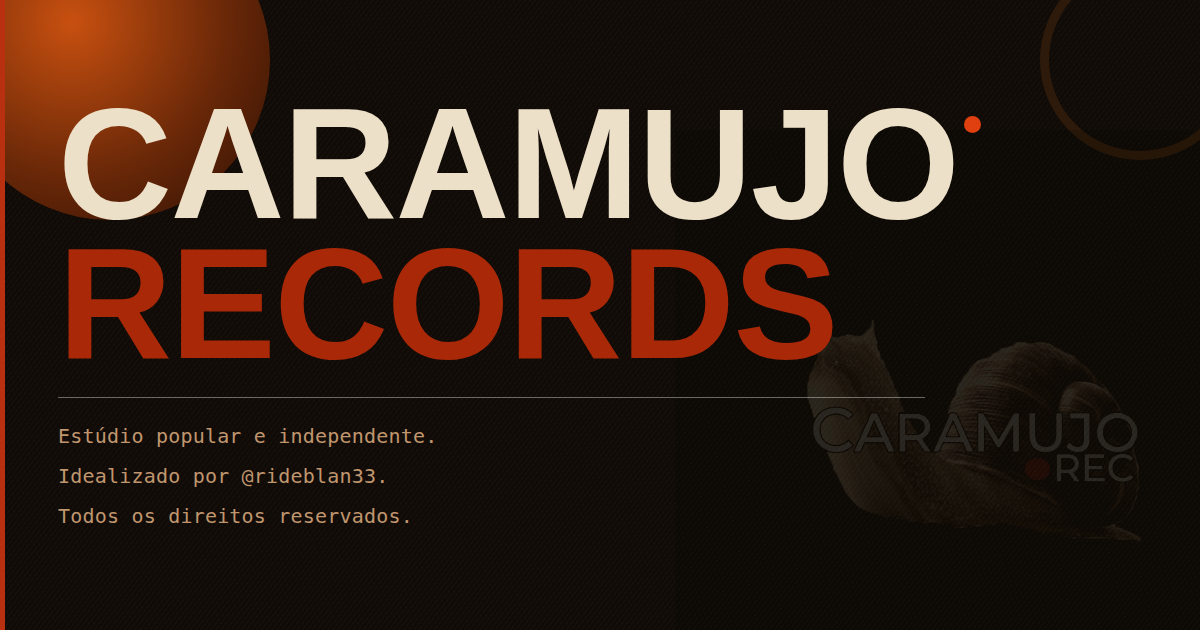
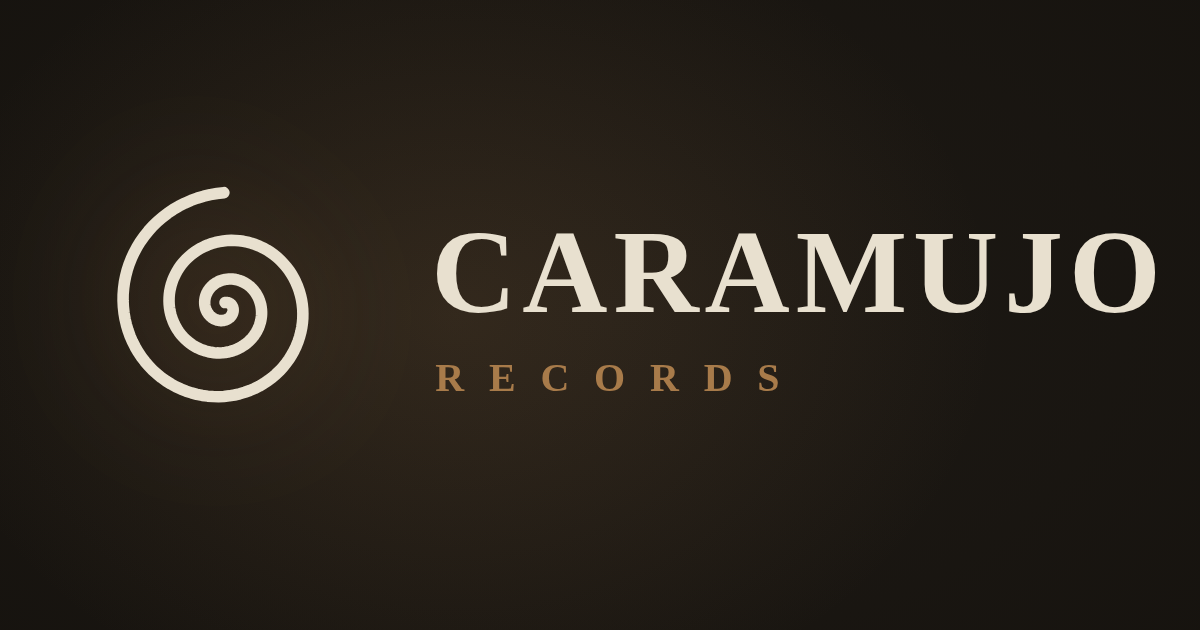
Add files via upload

diff --git a/README.md b/README.md
@@ -8,7 +8,9 @@ Site oficial do estúdio Caramujo Records — beats exclusivos, mixagem e master
 
 ## Visão Geral
 
-Single-page application (SPA) em HTML/CSS/JS puro, sem frameworks. Hospedado no **Cloudflare Pages** com deploy automático via GitHub. Integra **SoundCloud** para preview dos beats e **Mercado Pago** para processamento de pagamentos via cartão de crédito e PIX.
+Single-page application (SPA) em HTML/CSS/JS puro, sem frameworks. Hospedado no **Cloudflare Pages** com deploy automático via GitHub. Integra **SoundCloud** (preview dos beats + player contínuo via Widget API) e **Mercado Pago** para pagamentos via cartão de crédito e PIX.
+
+Jornada do site: **hero → pacotes → catálogo de beats → serviços → contato**. Os pacotes vêm antes do catálogo de propósito: o visitante ancora o preço antes de mergulhar nos beats.
 
 ---
 
@@ -20,6 +22,7 @@ Single-page application (SPA) em HTML/CSS/JS puro, sem frameworks. Hospedado no 
 ├── og-image.png                   # Thumbnail para compartilhamento (WhatsApp, redes sociais)
 ├── termos-de-licenca.pdf          # Termos de licença disponíveis para download
 ├── Caramujo_Records.png           # Logo do estúdio
+├── selo-creme.svg / selo-sepia.svg# Selos da marca (favicon, hero, footer)
 ├── _headers                       # Headers HTTP do Cloudflare (CSP, segurança)
 ├── email-pedido.html              # Template de email — notificação de novo pedido (ao dono)
 ├── email-entrega.html             # Template de email — confirmação de pedido (ao comprador)
@@ -34,30 +37,41 @@ Single-page application (SPA) em HTML/CSS/JS puro, sem frameworks. Hospedado no 
 
 ## Funcionalidades
 
+### Hero
+- Prova social: 40+ artistas · 200+ faixas lançadas · 2.500.000+ streams
+- CTAs: "Ouvir o catálogo" (#beats) e "Mix & master" (#services)
+
 ### Catálogo de Beats
-- Listagem paginada dos beats disponíveis com player SoundCloud integrado
-- Filtro por gênero (Trap, Boom Bap, Plug, Hood Trap, etc.)
-- Busca por nome — sem distinção de maiúsculas/minúsculas e sem distinção de acentos
-- Beats marcados como `sold: true` são removidos automaticamente do catálogo após a venda
+- Listagem paginada (9 por página) com player SoundCloud integrado
+- **Player contínuo / modo rádio:** dar play num beat pausa os demais; quando um beat termina, o próximo toca automaticamente — inclusive virando de página sozinho até o fim do catálogo
+- Filtro por gênero (Trap, Boom Bap, Plug, Hood Trap, Drill, etc.)
+- Ordenação: padrão ou aleatória (reembaralha a cada seleção)
+- Busca por nome — sem distinção de maiúsculas/minúsculas nem de acentos
+- Beats vendidos: exibidos por padrão como prova social (nome riscado + botão "✕ Vendido" desabilitado), com opção "Esconder vendidos"
+- "Licença exclusiva" com balão explicativo no hover/clique
 
 ### Pacotes Promocionais
-- Desconto progressivo para compra de 1, 2 ou 3 beats
-- Opção de adicionar stems separados por instrumento
-- Modal de seleção de beat com busca integrada (também normalizada)
+- Desconto progressivo para 1, 2 ou 3 beats (R$119 / R$219 / R$299)
+- Modal de seleção de beats com busca integrada (também normalizada)
 
 ### Serviços por Encomenda
-- Beat personalizado, Mixagem, Masterização e Mix + Master
+- Beat personalizado (R$149), Mixagem (R$149), Masterização (R$79) e Mix + Master (R$199)
 - Adicionados ao carrinho e processados pelo mesmo fluxo de pagamento
 
 ### Carrinho e Checkout
+- **Upsell inteligente:** o carrinho sempre aponta o próximo degrau de custo-benefício, com a economia em destaque
+  - 1 beat avulso → pacote de 2 (−R$19) · 2 avulsos → pacote de 3 (−R$58)
+  - Pacote de 1 → pacote de 2 (−R$19) · pacote de 2 → pacote de 3 (−R$39)
+  - Só Mixagem ou só Masterização → Mix + Master (−R$29) · ambos separados → combo (−R$29)
+  - Some quando o cliente já está no melhor degrau
 - Validação de CPF, email e dados do comprador
-- Suporte a cupons de desconto com controle de usos via GitHub API
+- Cupons de desconto com controle de usos via GitHub API
 - Aceite eletrônico dos termos de licença com timestamp registrado
 - Pagamento via **cartão de crédito** (Mercado Pago Checkout Bricks) e **PIX**
 
 ### Contrato Digital
 - Gerado automaticamente no momento do pagamento
-- Inclui dados do comprador, itens adquiridos, valor, ID do pagamento e timestamp do aceite
+- Inclui dados do comprador, itens, valor, ID do pagamento e timestamp do aceite
 - Enviado ao comprador e ao produtor como anexo por email
 
 ---
@@ -85,7 +99,7 @@ Comprador preenche dados → create-payment.js → Mercado Pago
                            (catálogo atualizado em produção)
 ```
 
-> **Cartão:** emails disparados no `create-payment.js` (resposta síncrona).  
+> **Cartão:** emails disparados no `create-payment.js` (resposta síncrona).
 > **PIX:** emails disparados no `payment-webhook.js` (após confirmação assíncrona do Mercado Pago).
 
 ---
@@ -106,7 +120,7 @@ Configuradas no painel do Cloudflare Pages → **Settings → Environment variab
 
 ## Deploy
 
-O projeto usa **Cloudflare Pages** com deploy contínuo via GitHub.
+**Cloudflare Pages** com deploy contínuo via GitHub.
 
 ```bash
 # Qualquer push para a branch main dispara o redeploy automaticamente
@@ -115,7 +129,9 @@ git commit -m "descrição da mudança"
 git push
 ```
 
-O webhook de pagamento também dispara commits automáticos (marcação de beats vendidos e controle de cupons), o que por sua vez aciona um novo redeploy.
+O webhook de pagamento também dispara commits automáticos (marcação de beats vendidos e controle de cupons), o que aciona um novo redeploy.
+
+> **Atenção:** o `_headers` precisa liberar `https://w.soundcloud.com` no `script-src` da CSP. Sem isso, o player contínuo não funciona em produção (o script da Widget API é bloqueado pelo navegador).
 
 ---
 
@@ -124,19 +140,19 @@ O webhook de pagamento também dispara commits automáticos (marcação de beats
 Os beats são definidos diretamente no `index.html`, no array `BEATS`:
 
 ```js
-{ id: 99, name: 'Nome do Beat', genre: 'trap', bpm: 140, key: 'Am',
-  sc: 'SOUNDCLOUD_TRACK_ID', sold: false }
+{ id: 112, name: 'NOME DO BEAT', bpm: 140, key: 'Am', genre: 'trap',
+  sold: false, scUrl: 'https%3A//soundcloud.com/rideblan33/slug-da-faixa' }
 ```
 
 | Campo | Descrição |
 |---|---|
 | `id` | Identificador único (não repetir) |
 | `name` | Nome do beat (usado na busca e no contrato) |
-| `genre` | Gênero: `trap`, `boom-bap`, `plug`, `hood-trap`, `outro` |
 | `bpm` | BPM do beat |
-| `key` | Tom (ex: `Am`, `C#`) |
-| `sc` | ID da faixa no SoundCloud |
-| `sold` | `false` disponível · `true` vendido (removido do catálogo) |
+| `key` | Tom (ex: `Am`, `Ebm`) |
+| `genre` | Um dos: `trap` `boombap` `plug` `hoodtrap` `experimental` `hard` `detroit` `drumless` `funk` `pluggnb` `bounce` `nomelody` `drill` |
+| `sold` | `false` disponível · `true` vendido (fica visível, riscado e sem compra) |
+| `scUrl` | URL da faixa no SoundCloud com `https:` codificado como `https%3A` |
 
 ---
 
@@ -146,15 +162,16 @@ Definidos no objeto `COUPONS` no `index.html`:
 
 ```js
 const COUPONS = {
-  'CODIGO': { discount: 20, type: 'percent', uses: 0, maxUses: 10 }
+  'CODIGO':  { pct: 20, maxUses: 10, uses: 0 },        // 20% de desconto
+  'FIXO':    { fixedPrice: 99, maxUses: 1, uses: 0 },  // preço final fixo em R$99
 }
 ```
 
 | Campo | Descrição |
 |---|---|
-| `discount` | Valor do desconto |
-| `type` | `'percent'` (%) ou `'fixed'` (R$) |
-| `uses` | Quantidade de usos atual (atualizado automaticamente via webhook) |
+| `pct` | Desconto percentual sobre o subtotal |
+| `fixedPrice` | Alternativa ao `pct`: trava o total no valor definido |
+| `uses` | Usos atuais (atualizado automaticamente via webhook) |
 | `maxUses` | Limite de usos (`Infinity` para ilimitado) |
 
 ---
@@ -172,26 +189,30 @@ Enviados via **[Resend](https://resend.com)**:
 
 ---
 
-## Meta Tags (Compartilhamento)
+## SEO e Compartilhamento
 
-Configuradas no `<head>` do `index.html` para WhatsApp, Instagram e demais redes:
+- `<title>` descritivo: "Caramujo Records — Beats exclusivos, mix e master por @rideblan33"
+- **Schema.org (JSON-LD):** o catálogo é injetado como `ItemList` de `Product` com preço e disponibilidade — buscadores entendem o site como loja
+- Meta tags Open Graph no `<head>` para WhatsApp, Instagram e demais redes
 
-```html
-<meta property="og:title"       content="Caramujo Records" />
-<meta property="og:description" content="Estúdio popular e independente. Idealizado por @rideblan33. Todos os direitos reservados." />
-<meta property="og:image"       content="https://caramujorecords.com.br/og-image.png" />
-```
-
-Após atualizar o `og-image.png` no servidor, forçar releitura em:  
+Após atualizar o `og-image.png`, forçar releitura em
 **[developers.facebook.com/tools/debug](https://developers.facebook.com/tools/debug)** → Scrape Again.
+
+---
+
+## Acessibilidade e Performance
+
+- Grão de filme animado desligado no mobile e sob `prefers-reduced-motion` (bateria e acessibilidade); a textura estática permanece
+- Iframes do SoundCloud com lazy loading
+- Cursor customizado desativado em dispositivos touch
 
 ---
 
 ## Segurança
 
-- Headers HTTP de segurança configurados no `_headers` (CSP, X-Frame-Options, etc.)
+- Headers HTTP de segurança no `_headers` (CSP, X-Frame-Options, etc.)
 - Validação de CPF e email no servidor (`create-payment.js`)
-- Validação de cupons lida diretamente do GitHub em tempo real (evita reuso após expiração)
+- Validação de cupons lida do GitHub em tempo real (evita reuso após expiração)
 - Chave de idempotência em todos os pagamentos (previne cobranças duplicadas)
 - Sanitização de todos os inputs antes de enviar ao Mercado Pago
 